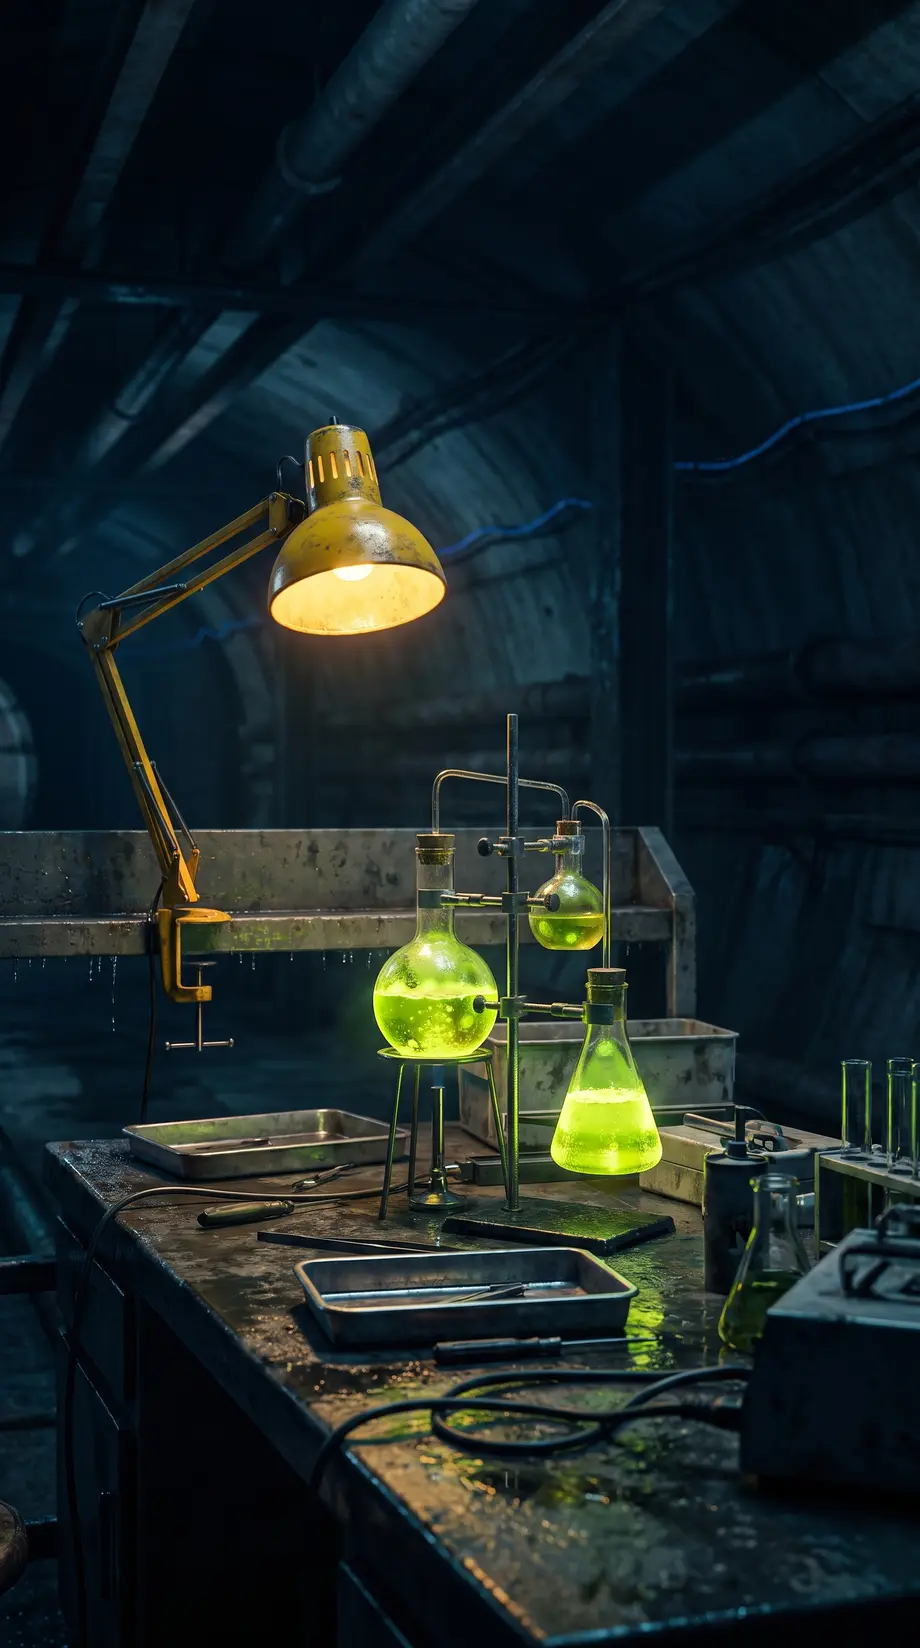
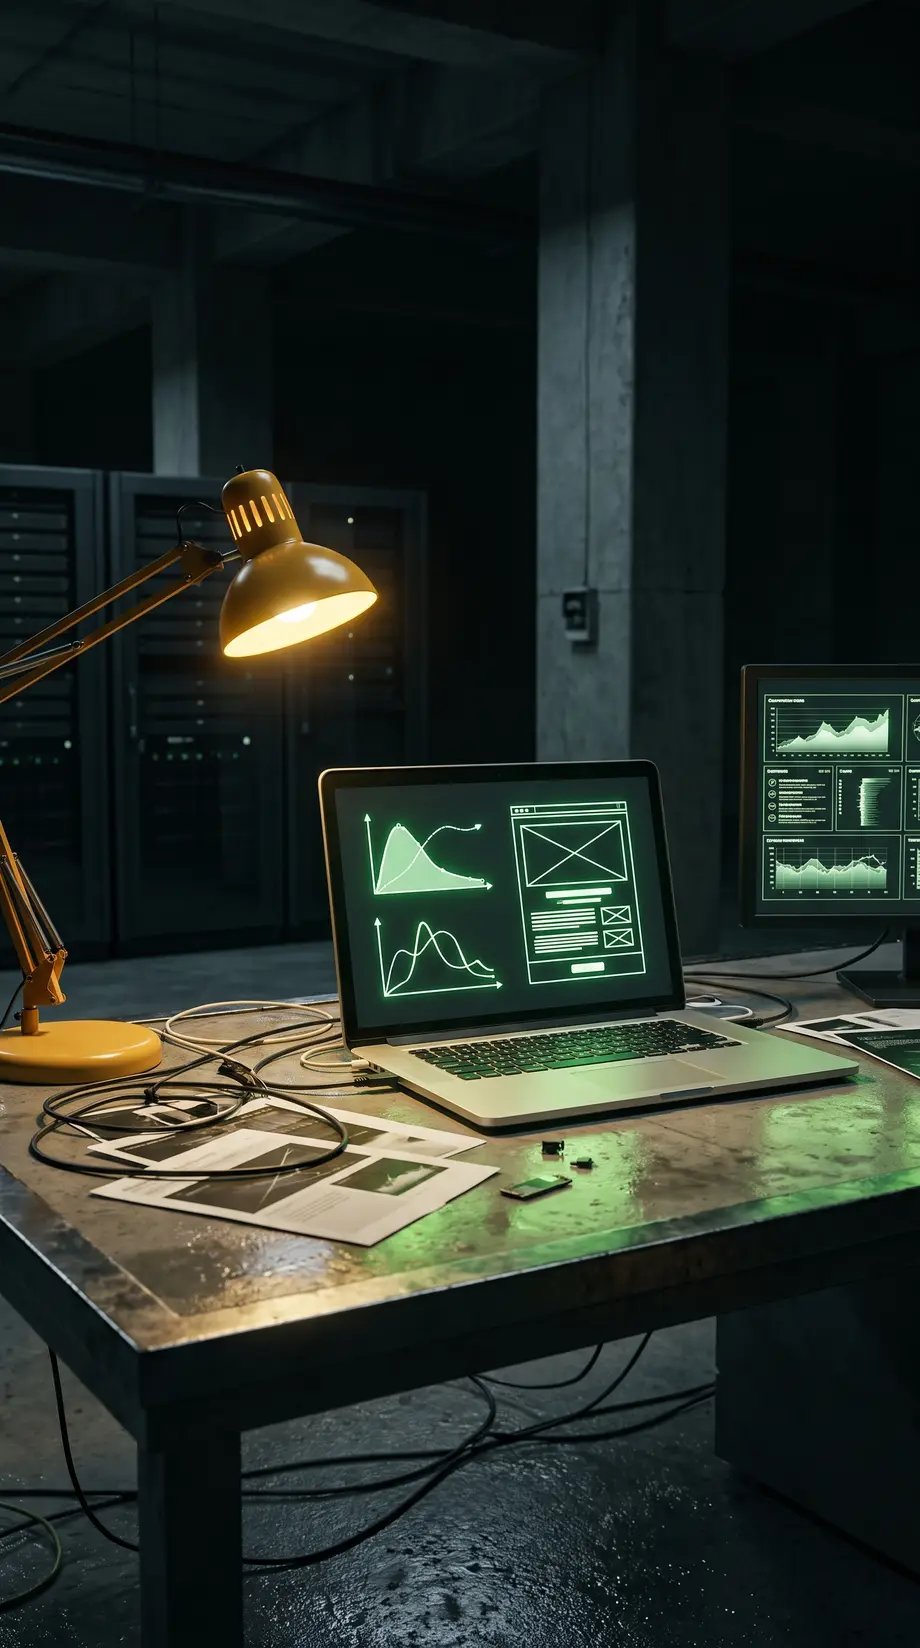
Вернул кадр на первом экране, маркетинговая лаборатория, тексты заказчика
ФОН НА ПЕРВОМ ЭКРАНЕ. Кадр никуда не пропадал — его съедало затемнение: scrim
сцены доводился до сплошного фона, а сверху ложились подложки текста. Втроём они
закрашивали нижние две трети. Затемнение ослаблено везде: сцена, субтитры,
подложки обещания.

ШИРОКИЙ ЭКРАН. Приложение свёрстано под телефон и на ноутбуке висело колонкой
460px посреди пустой почти чёрной плоскости. Теперь за колонкой — тот же кадр
сцены, расфокусированный и приглушённый: окно принадлежит миру, внимание
остаётся в колонке. На телефоне слой не рендерится.

ЛАБОРАТОРИЯ ПЕРЕСНЯТА. Была химическая — колбы и штативы. Стала маркетинговой:
раскрытые ноутбуки, мониторы с кривыми конверсии и каркасами посадочных страниц,
серверные стойки, кабели, жёлтая предупредительная полоса. В проёме цеха виден
сам Город трафика с его трассами — это один мир, а не две разные картинки.

ТЕКСТЫ. Мост первого протокола и мост ко второму эксперименту заменены на
присланные дословно.

НАГРАДА. CTA всегда «Забрать ассистента», под кнопкой — «Попробуй прямо сейчас
на своём проекте». Ведущий вернулся к нормальному росту: он элемент мира и
рассказчик, а не иконка внизу кадра.

diff --git a/src/content/script.ts b/src/content/script.ts
@@ -61,31 +61,29 @@ export type BridgeBlock = { kind: 'lead' | 'note' | 'quote'; text: string }
 
 /** Экран 2. Двери открылись, человек внутри. Открытие города не повторяем. */
 export const LAB1_BRIDGE: BridgeBlock[] = [
-  { kind: 'lead', text: 'Ну что, начинаем с первого элемента.' },
+  { kind: 'lead', text: 'Ну что, начинаем с первого элемента качественной связки.' },
   { kind: 'lead', text: 'Кому мы продаём и зачем этот человек вообще покупает.' },
-  { kind: 'note', text: 'И здесь лучше не проскочить со словами:' },
-  { kind: 'quote', text: 'Да я и так знаю свою ЦА' },
   {
     kind: 'note',
     text: 'Потому что если ты не понимаешь, кто тебе нужен и зачем он покупает, дальше ты начинаешь собирать связку на догадках.',
   },
   {
     kind: 'note',
-    text: 'Можно идеально настроить Директ, написать отличный текст и сделать красивый сайт. Только не для того человека и не с тем предложением.',
+    text: 'Можно идеально настроить Директ, написать отличный текст и сделать красивый сайт.',
   },
-  { kind: 'lead', text: 'Так что глаза пошире. Смотри.' },
+  { kind: 'note', text: 'Только не для того человека и не с тем предложением.' },
+  { kind: 'lead', text: 'Так что глаза пошире, слушай внимательно.' },
+  { kind: 'lead', text: 'Смотри.' },
 ]
 
 /** Экран 4. Мост ко второму эксперименту. */
 export const BRIDGE2: BridgeBlock[] = [
   { kind: 'lead', text: 'Теперь мы понимаем, кто эти люди и зачем они покупают.' },
-  { kind: 'note', text: 'Но пока это просто информация. Денег она сама не принесёт.' },
+  { kind: 'note', text: 'Но пока это просто информация.' },
+  { kind: 'note', text: 'Денег она сама не принесёт.' },
   { kind: 'note', text: 'Её ещё надо превратить в то, что человек реально увидит.' },
-  { kind: 'quote', text: 'Какой смысл идеально разделить аудиторию, если потом всем сказать одно и то же?' },
-  {
-    kind: 'lead',
-    text: 'Второй элемент — что мы этим людям говорим.',
-  },
+  { kind: 'lead', text: 'Потому что какой смысл идеально разделить аудиторию…' },
+  { kind: 'lead', text: '…если потом всем сказать одно и то же?' },
 ]
 
 /** Экран 5. Мост к допуску: зачем проверка и что будет дальше. */

diff --git a/src/screens/CityScreen.tsx b/src/screens/CityScreen.tsx
@@ -77,7 +77,7 @@ export function CityScreen({ onNext }: { onNext: () => void }) {
               className="pointer-events-none absolute -inset-x-[var(--gutter)] -top-sp4 -bottom-sp6 -z-10"
               style={{
                 background:
-                  'linear-gradient(to bottom, color-mix(in oklab, var(--color-ground-deep) 55%, transparent) 0%, color-mix(in oklab, var(--color-ground-deep) 86%, transparent) 45%, color-mix(in oklab, var(--color-ground-deep) 78%, transparent) 100%)',
+                  'linear-gradient(to bottom, color-mix(in oklab, var(--color-ground-deep) 40%, transparent) 0%, color-mix(in oklab, var(--color-ground-deep) 70%, transparent) 45%, color-mix(in oklab, var(--color-ground-deep) 62%, transparent) 100%)',
               }}
             />
             <span className="label-mono inline-block rounded-chip border border-alert/60 bg-[color-mix(in_oklab,var(--color-ground-deep)_80%,transparent)] px-sp2 py-[6px] text-alert backdrop-blur-[4px]">
@@ -118,7 +118,7 @@ export function CityScreen({ onNext }: { onNext: () => void }) {
                   className="pointer-events-none absolute -inset-x-[var(--gutter)] -top-sp6 -bottom-sp5 -z-10"
                   style={{
                     background:
-                      'linear-gradient(to bottom, transparent 0%, color-mix(in oklab, var(--color-ground-deep) 78%, transparent) 32%, color-mix(in oklab, var(--color-ground-deep) 90%, transparent) 100%)',
+                      'linear-gradient(to bottom, transparent 0%, color-mix(in oklab, var(--color-ground-deep) 58%, transparent) 34%, color-mix(in oklab, var(--color-ground-deep) 72%, transparent) 100%)',
                   }}
                 />
                 <p className="on-scene max-w-[26ch] text-[22px] leading-[1.24] font-semibold text-ink">
@@ -189,7 +189,7 @@ function CityFlight({ frame }: { frame: number }) {
         className="absolute inset-0"
         style={{
           background:
-            'linear-gradient(to bottom, color-mix(in oklab, var(--color-ground-deep) 78%, transparent) 0%, color-mix(in oklab, var(--color-ground-deep) 24%, transparent) 30%, color-mix(in oklab, var(--color-ground-deep) 46%, transparent) 58%, var(--color-ground) 92%)',
+            'linear-gradient(to bottom, color-mix(in oklab, var(--color-ground-deep) 62%, transparent) 0%, color-mix(in oklab, var(--color-ground-deep) 12%, transparent) 26%, color-mix(in oklab, var(--color-ground-deep) 34%, transparent) 62%, color-mix(in oklab, var(--color-ground) 88%, transparent) 100%)',
         }}
       />
     </div>

diff --git a/src/App.tsx b/src/App.tsx
@@ -2,6 +2,7 @@ import { useEffect, useState } from 'react'
 import { AnimatePresence, motion } from 'motion/react'
 import { useProgress } from './store/progress'
 import { ACT, nextStep, STEPS, type StepId } from './router/flow'
+import { asset } from './lib/asset'
 import { DUR, EASE_OUT } from './lib/motion'
 import { initTelegram, setBackButton } from './lib/telegram'
 import { readDebugFlag, watchDebugGesture } from './lib/debug'
@@ -49,6 +50,7 @@ export default function App() {
 
   return (
     <>
+      <WideBackdrop step={step} />
       {debug && <DebugPanel onClose={() => setDebug(false)} />}
       <AnimatePresence mode="wait">
         <motion.div
@@ -62,6 +64,44 @@ export default function App() {
         </motion.div>
       </AnimatePresence>
     </>
+  )
+}
+
+/**
+ * Кадр текущей сцены во всю ширину окна.
+ *
+ * Приложение свёрстано под телефон и живёт колонкой 460px. На ноутбуке вокруг
+ * колонки оставалась пустая почти чёрная плоскость — мир обрывался по краям.
+ * Здесь тот же кадр расфокусирован и приглушён, поэтому окно принадлежит миру,
+ * а внимание остаётся в колонке. На телефоне слой не рендерится вовсе.
+ */
+const BACKDROP: Record<StepId, string> = {
+  city: 'world/city-districts.webp',
+  lab1: 'world/lab-interior.webp',
+  reward1: 'world/offer-bench.webp',
+  lab2: 'world/offer-bench.webp',
+  access: 'world/access-door.webp',
+  lab3: 'world/assembly.webp',
+  bundle: 'world/city-conversions.webp',
+  offer: 'world/lab-interior.webp',
+  purchased: 'world/assembly.webp',
+}
+
+function WideBackdrop({ step }: { step: StepId }) {
+  return (
+    // z-0, а не -z-10: заливка html/body рисуется поверх потомков с отрицательным
+    // z-index и полностью съедает этот слой. Уже наступали на это со сценами.
+    <div aria-hidden className="fixed inset-0 z-0 hidden overflow-hidden sm:block">
+      <img
+        src={asset(BACKDROP[step])}
+        alt=""
+        className="h-full w-full scale-110 object-cover blur-[26px]"
+      />
+      <div
+        className="absolute inset-0"
+        style={{ background: 'color-mix(in oklab, var(--color-ground) 78%, transparent)' }}
+      />
+    </div>
   )
 }
 

diff --git a/src/screens/Reward1Screen.tsx b/src/screens/Reward1Screen.tsx
@@ -27,7 +27,7 @@ export function Reward1Screen({ onNext }: { onNext: () => void }) {
   return (
     <Screen bare>
       <Scene src={asset('world/offer-bench.webp')} still />
-      <Character pose="calm" side="right" height="34vh" delay={0.35} />
+      <Character pose="calm" side="right" height="48vh" delay={0.35} />
 
       <div className="relative z-20 flex flex-1 flex-col px-[var(--gutter)] pt-sp6 pb-sp2">
         <p className="label-mono text-[var(--acid)]">получено</p>
@@ -59,18 +59,23 @@ export function Reward1Screen({ onNext }: { onNext: () => void }) {
       </div>
 
       <BottomBar>
-        {assistant_1_opened || !ready ? (
+        {assistant_1_opened ? (
           <Button onClick={onNext}>Идти дальше</Button>
         ) : (
-          <Button
-            onClick={() => {
-              track('assistant1_clicked')
-              mark('assistant_1_opened', true)
-              openExternal(config.assistant1Url)
-            }}
-          >
-            Забрать ассистента
-          </Button>
+          <>
+            <Button
+              onClick={() => {
+                track('assistant1_clicked')
+                mark('assistant_1_opened', true)
+                if (ready) openExternal(config.assistant1Url)
+              }}
+            >
+              Забрать ассистента
+            </Button>
+            <p className="mt-sp2 text-center text-[14px] leading-snug text-ink-2">
+              Попробуй прямо сейчас на своём проекте.
+            </p>
+          </>
         )}
       </BottomBar>
     </Screen>

diff --git a/src/screens/Lab2Screen.tsx b/src/screens/Lab2Screen.tsx
@@ -119,18 +119,23 @@ export function Lab2Screen({ onNext }: { onNext: () => void }) {
           </Button>
         )}
         {phase === 'reward' &&
-          (assistant_2_opened || !assistantReady ? (
+          (assistant_2_opened ? (
             <Button onClick={onNext}>Получить допуск</Button>
           ) : (
-            <Button
-              onClick={() => {
-                track('assistant2_clicked')
-                mark('assistant_2_opened', true)
-                openExternal(config.assistant2Url)
-              }}
-            >
-              Забрать ассистента
-            </Button>
+            <>
+              <Button
+                onClick={() => {
+                  track('assistant2_clicked')
+                  mark('assistant_2_opened', true)
+                  if (assistantReady) openExternal(config.assistant2Url)
+                }}
+              >
+                Забрать ассистента
+              </Button>
+              <p className="mt-sp2 text-center text-[14px] leading-snug text-ink-2">
+                Попробуй прямо сейчас на своём проекте.
+              </p>
+            </>
           ))}
       </BottomBar>
     </Screen>

diff --git a/src/ui/Scene.tsx b/src/ui/Scene.tsx
@@ -42,7 +42,7 @@ export function Scene({
         className="absolute inset-0"
         style={{
           background:
-            'linear-gradient(to bottom, color-mix(in oklab, var(--color-ground-deep) 78%, transparent) 0%, color-mix(in oklab, var(--color-ground-deep) 24%, transparent) 30%, color-mix(in oklab, var(--color-ground-deep) 46%, transparent) 58%, var(--color-ground) 92%)',
+            'linear-gradient(to bottom, color-mix(in oklab, var(--color-ground-deep) 62%, transparent) 0%, color-mix(in oklab, var(--color-ground-deep) 12%, transparent) 26%, color-mix(in oklab, var(--color-ground-deep) 34%, transparent) 62%, color-mix(in oklab, var(--color-ground) 88%, transparent) 100%)',
         }}
       />
       {children}

diff --git a/src/ui/Subtitles.tsx b/src/ui/Subtitles.tsx
@@ -28,7 +28,7 @@ export function Subtitles({
         className="pointer-events-none absolute -inset-x-[var(--gutter)] -top-sp6 -bottom-sp5"
         style={{
           background:
-            'linear-gradient(to bottom, transparent 0%, color-mix(in oklab, var(--color-ground-deep) 82%, transparent) 30%, color-mix(in oklab, var(--color-ground-deep) 92%, transparent) 100%)',
+            'linear-gradient(to bottom, transparent 0%, color-mix(in oklab, var(--color-ground-deep) 62%, transparent) 30%, color-mix(in oklab, var(--color-ground-deep) 78%, transparent) 100%)',
         }}
       />
       {!line && hint && (

diff --git a/.claude/style-contract.md b/.claude/style-contract.md
@@ -5,9 +5,18 @@
    макет экрана, мокап телефона, спецификацию дизайн-системы, палитру, инфографику,
    схему со стрелками, скриншот сайта.
 
-2. ТЕКСТ. В кадре НЕТ НИ ОДНОЙ БУКВЫ И НИ ОДНОЙ ЦИФРЫ. Ни вывесок с надписями,
-   ни табличек, ни номеров, ни водяных знаков, ни подписи автора. Вывеска в кадре
-   может быть — но пустая, светящаяся, без текста.
+2. ТЕКСТ. Осмысленных слов в кадре нет: ни вывесок с надписями, ни табличек,
+   ни водяных знаков, ни подписи автора. Вывеска может быть — пустая, светящаяся.
+   ИСКЛЮЧЕНИЕ для сцен лаборатории: на экранах допустимы графики, кривые роста,
+   столбики и панели показателей — но как графика, без читаемых слов и подписей.
+
+2a. ЛАБОРАТОРИЯ — ЭТО МАРКЕТИНГ, А НЕ ХИМИЯ. Эстетика взята у подпольной
+   лаборатории «во все тяжкие»: бетон, жёлтый свет, промзона, кислотный неон.
+   Но производят здесь рекламные связки: раскрытые ноутбуки, мониторы с
+   дашбордами и кривыми конверсии, макеты посадочных страниц на экранах,
+   провода, серверные стойки. Колбы и штативы допустимы как реквизит, но не
+   как главное содержание кадра. Где уместно — в окне или проёме виден ночной
+   Город трафика с его сине-золотыми трассами: это один и тот же мир.
 
 3. СВЕТ И ЦВЕТ. Ночь. Глубокая сине-чёрная база #030C1A…#162B46 для городских сцен
    и тёпло-чёрная #0B0A06…#221C10 для сцен лаборатории. Единственный тёплый источник
